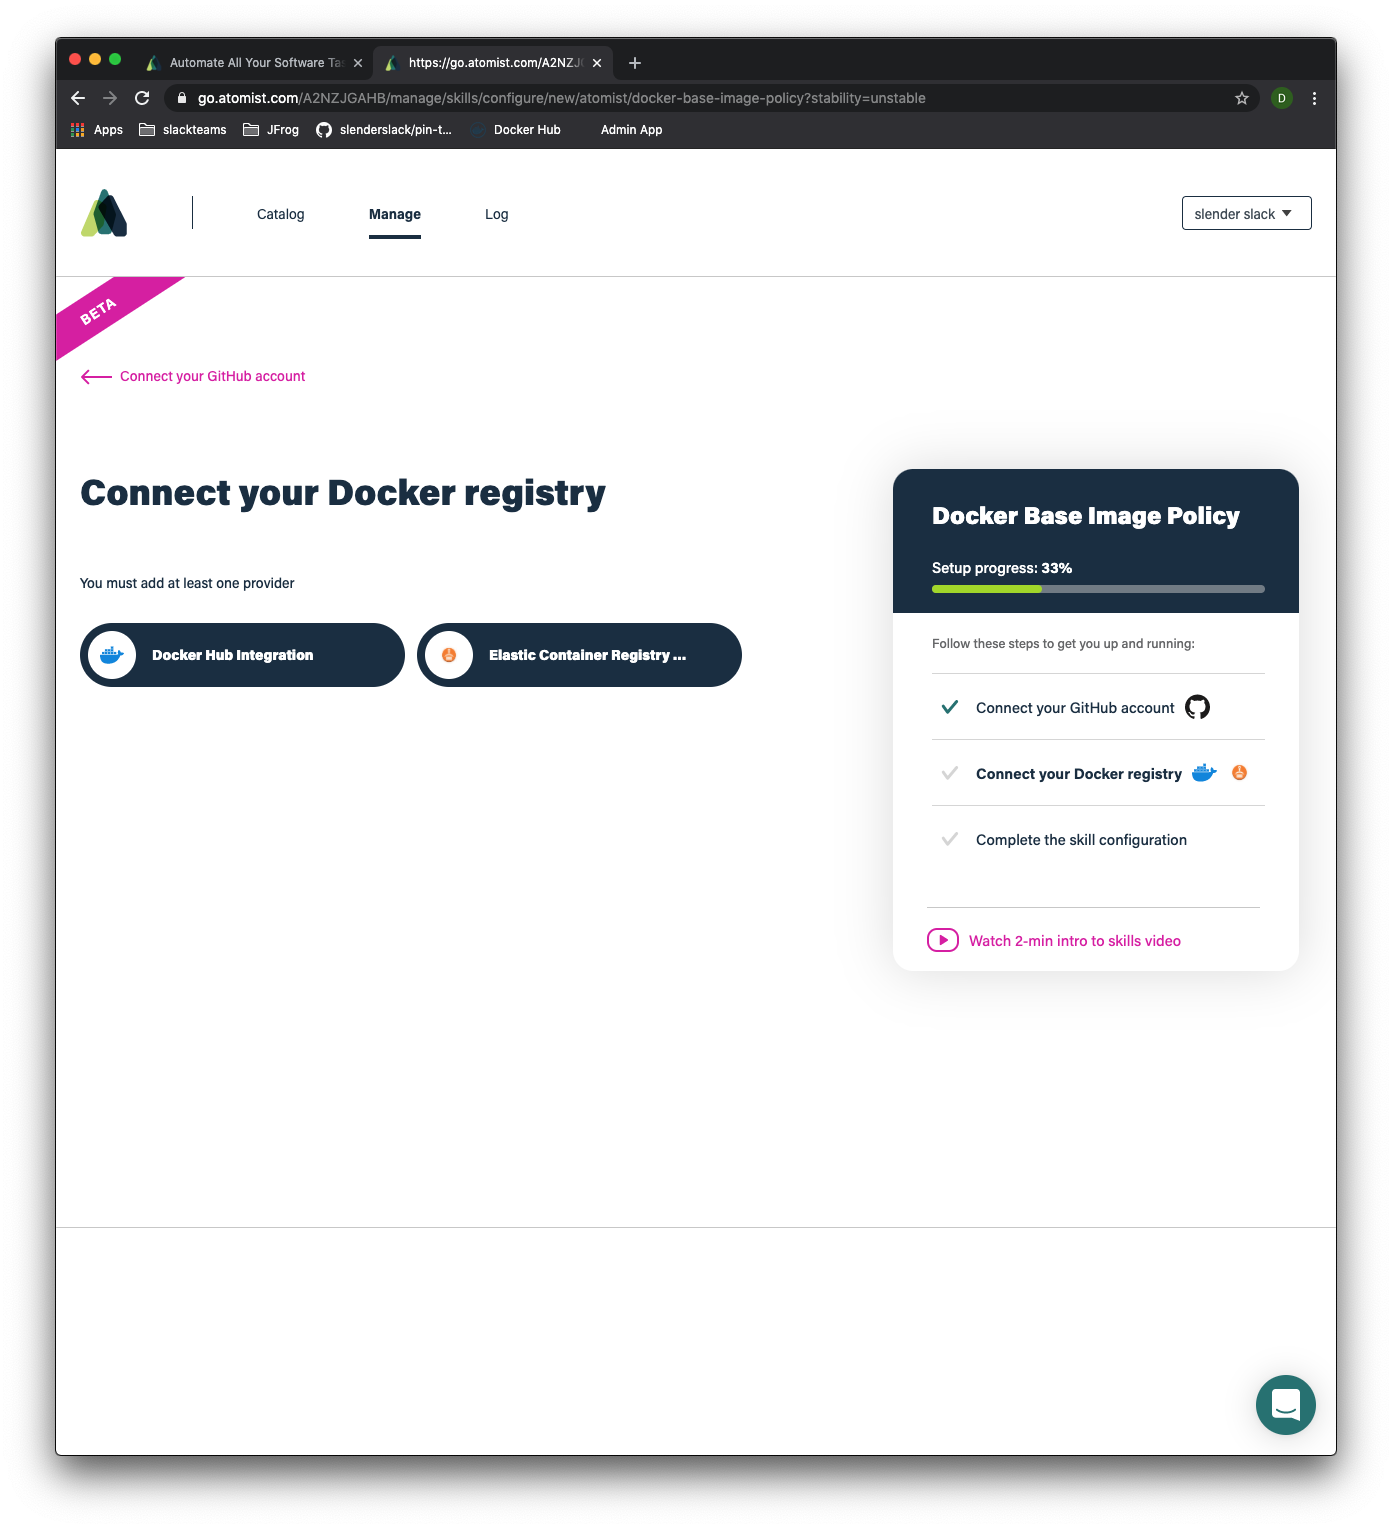
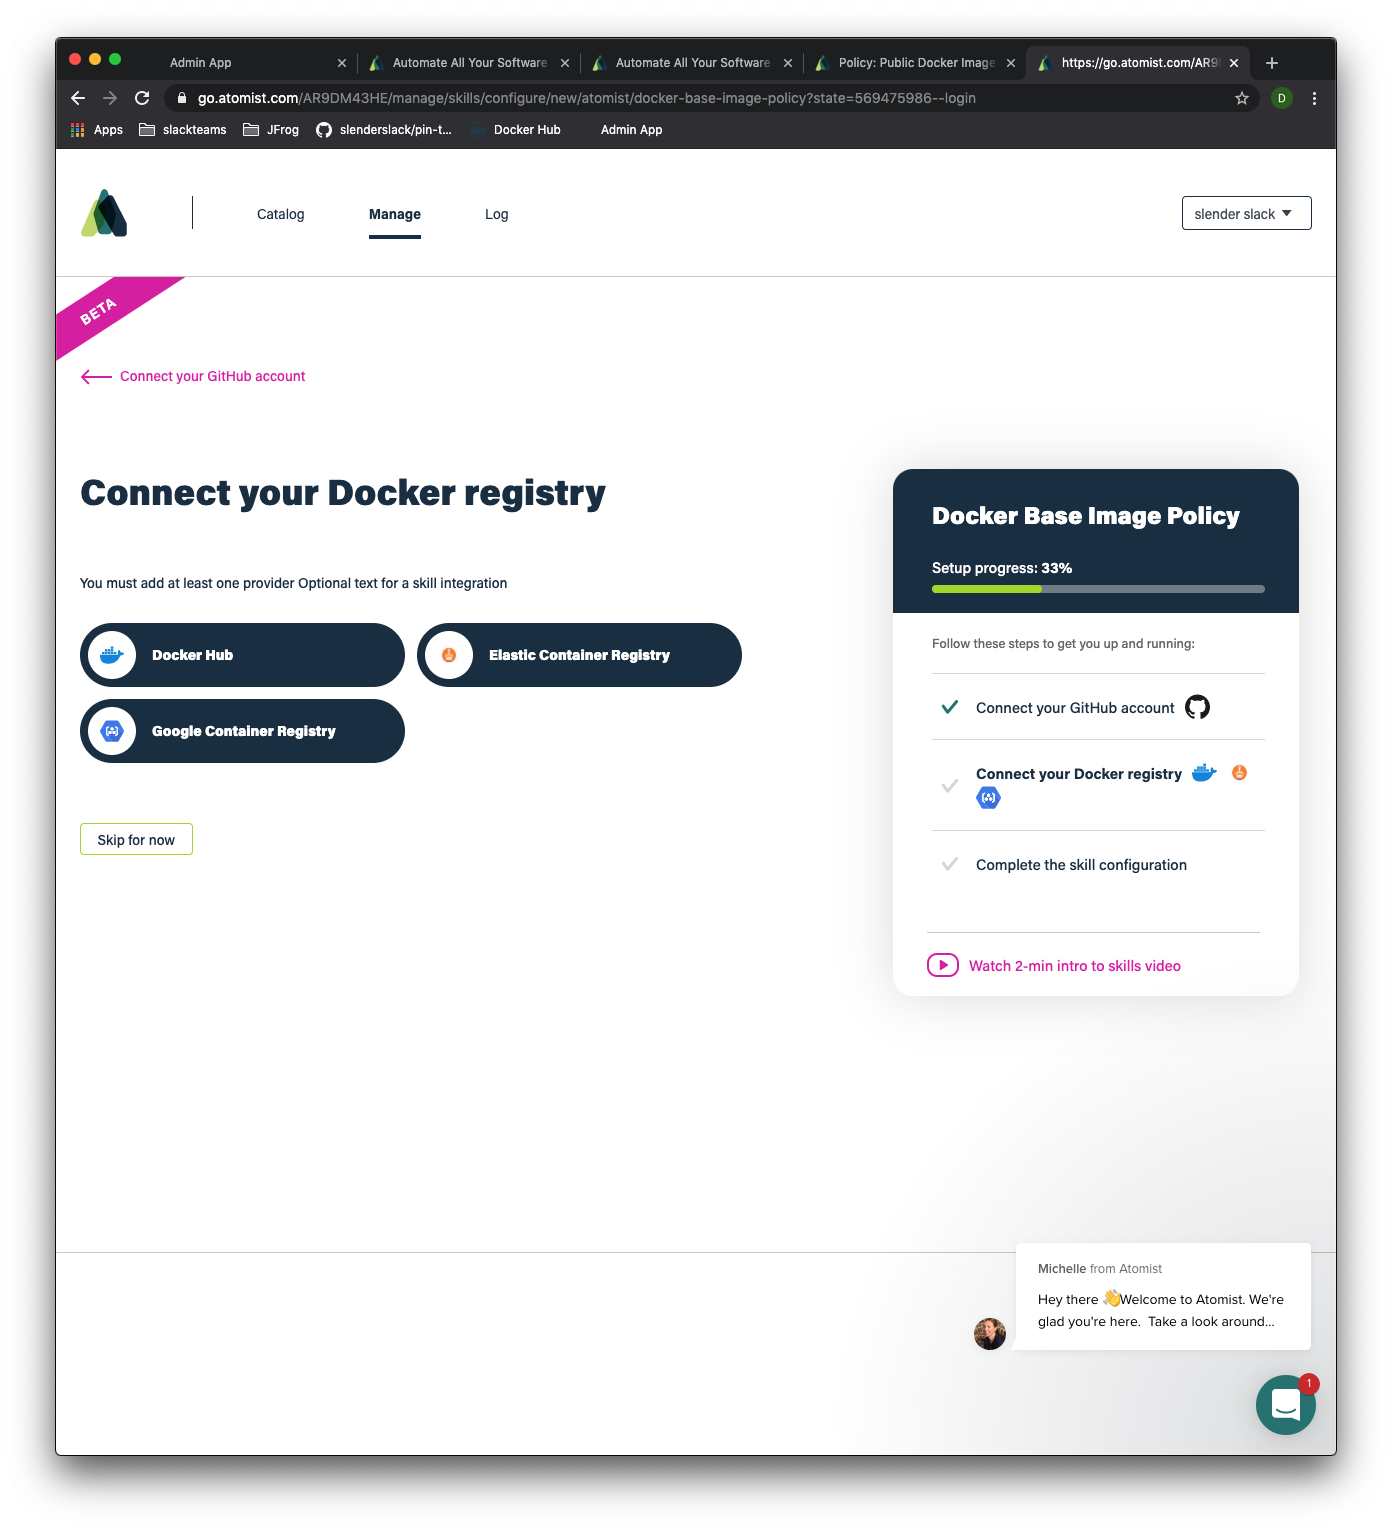
Update screen shots in step 1

diff --git a/docs/tutorials/public-docker-image-pinning.md b/docs/tutorials/public-docker-image-pinning.md
@@ -2,13 +2,17 @@
 
 ## Policy:  Public Docker Image Pinning
 
-Achieves repeatable docker builds by switching Dockerfile `FROM` instructions to reference images by manifest (instead of by tag).  Watches for updates to Tags and offers Pull Requests to developers when a new base image is available.
+Achieves repeatable docker builds by switching Dockerfile `FROM` instructions to reference images by manifest (instead
+of by tag).  Watches for updates to Tags and offers Pull Requests to developers when a new base image is available.
 
 ### Step 1:  Enable policy for public images stored on Docker Hub
 
-This policy watches GitHub pushes for Dockerfiles with `FROM` instructions that reference *public* Docker Image Tags.  The policy will raise a PR to convert any Tag to a Docker digest.  It will then continue to raise PRs whenever that Tag moves, even if the Dockerfile author switches the Dockerfile to a different Tag.
+This policy watches GitHub pushes for Dockerfiles with `FROM` instructions that reference *public* Docker Image Tags.
+The policy will raise a PR to convert any Tag to a Docker digest.  It will then continue to raise PRs whenever that Tag
+moves, even if the Dockerfile author switches the Dockerfile to a different Tag.
 
-1. Start by enabling the [Docker Base Image Policy](https://go.atomist.com/catalog/skills/atomist/docker-base-image-policy) (note:  this is a preview version of the skill; it's unpublished). 
+1. Start by enabling the [Docker Base Image
+   Policy](https://go.atomist.com/catalog/skills/atomist/docker-base-image-policy).
 
 Click the Green button "Use this skill" on the [Skill Page](https://go.atomist.com/catalog/skills/atomist/docker-base-image-policy).
 
@@ -16,22 +20,25 @@ Click the Green button "Use this skill" on the [Skill Page](https://go.atomist.c
 
 2.  Enable the Skill.  This will take the user through the GitHub App integration, and selection of a Docker Registry.
 
-To see a PR that pins to an image digest in a public Docker Hub repo, we don't actually need to configure an integration.  However, we don't have a way to skip this step today.  For this tutorial, you can choose the `Docker Hub Integration`, 
+To see a PR that pins to an image digest in a public Docker Hub repo, we won't need to configure an
+integration to a private registry.  However, we will need to come back to this when we start tracking updates to tags in
+private registries.  For now, you can use the "skip" button to move past this step.
 
 ![img/public-docker-image-pinning/2.png](img/public-docker-image-pinning/2.png)
 
-3.  Select "Docker Hub Integration" and configure your `Docker ID` and `Namespace`.  Once complete, click "Save Configuration".  It's not necessary to add the personal access token for your `Docker ID` at this stage, but you'll need to return and configure this before we can start tracking Images in private registries.
 
-![img/public-docker-image-pinning/3.png](img/public-docker-image-pinning/3.png)
-
-4.  The Docker Base Image Policy configuration screen requires that you first configure the policy.  There are some options to customize how `FROM` line tags are managed, 
+3.  The Docker Base Image Policy configuration screen requires that you first configure the policy.  There are some
+    options to customize how `FROM` line tags are managed.  The defaults are actually suitable for this demonstration
+    so you can scroll to the bottom of this screen and just click the "Enable Skill" button. 
 
 ![img/public-docker-image-pinning/4.png](img/public-docker-image-pinning/4.png)
 
-5.  Your policy is now watching the set of Repos that you have selected in the Atomist GitHub app.  To see this in action, try pushing a new Repo with a simple Dockerfile.   For example, create a new empty Repo in your test org called `pinning-test` and then:
+4.  Your policy is now watching the set of Repos that you have selected in the Atomist GitHub app.  To see this in
+    action, try pushing a new Repo with a simple Dockerfile.   For example, create a new empty Repo in your test org
+    called `pinning-test` and then:
 
 ```bash
-$ export ORG=<my org name>
+$ export ORG=<replace with you org name>
 $ mkdir pinning-test && cd pinning-test && git init
 $ cat << END > Dockerfile
 FROM ubuntu:devel
@@ -47,25 +54,32 @@ $ git remote add origin git@github.com:$ORG/pinning-test.git
 $ git push -u origin master
 ```
 
-You will now see this Pull Request created in github.
+The Atomist GitHub application will detect the push, and then raise a Pull Request to pin your FROM line.
 
 ![img/public-docker-image-pinning/5.png](img/public-docker-image-pinning/5.png)
+
+You'll also see that the policy ran in the "log" tab of your workspace.
+
+![img/public-docker-image-pinning/11.png](img/public-docker-image-pinning/11.png)
 
 Drill in to the Pull Request and note that Atomist has "pinned" the `FROM` clause to the current digest:
 
 ![img/public-docker-image-pinning/6.png](img/public-docker-image-pinning/6.png)
 
-If the `devel` tag moves, this repo will get another pull request.  Your developers will be aware when there's an opportunity to push a new version of this image.  This can be especially important when we are tracking security fixes in the base image.
+If you build using this version of the Dockerfile, you'll always get the same base image.  If the `devel` tag moves,
+this repo will receive another pull request (ubuntu is a public docker registry).  This subsequent pull request makes
+developers aware that the base image has been updated.  In a subsequent step, we'll also talk about how we detect which
+vulnerabilities will be removed by merging this Pull Request.
 
-The above scenario demonstrates tracking images in public registries.  It's a good starting point to walk through some additional policies:
+As mentioned above, this scenario demonstrates tracking images in public registries.  It's a good starting point to walk
+through some additional policies:
 
-What if your `FROM` instruction references an image in a private registry?
+* What if your `FROM` instruction references an image in a private registry?
+* What if you're using multi-stage Dockerfiles (multiple `FROM` clauses)?
+* If given a Docker Image digest, can we track it back to the Dockerfile that produced it?  What about creating GitHub CheckRuns with Image scan vulnerability data.  Or tracking when an update to a base layer would remove a vulnerability?
 
-What if you're using multi-stage Dockerfiles (multiple `FROM` clauses)?
-
-If given a Docker Image digest, can we track it back to the Dockerfile that produced it?  What about creating GitHub CheckRuns with Image scan vulnerability data.  Or tracking when an update to a base layer would remove a vulnerability?
-
-Next step will be tackling private registries, and getting Image vulnerabilty data pulled back into the Developer workflow.
+The next step will be tackling private registries, and getting Image vulnerabilty data pulled back into the Developer
+workflow.
 
 ### Step 2:  Integrating your private Docker Hub
 
